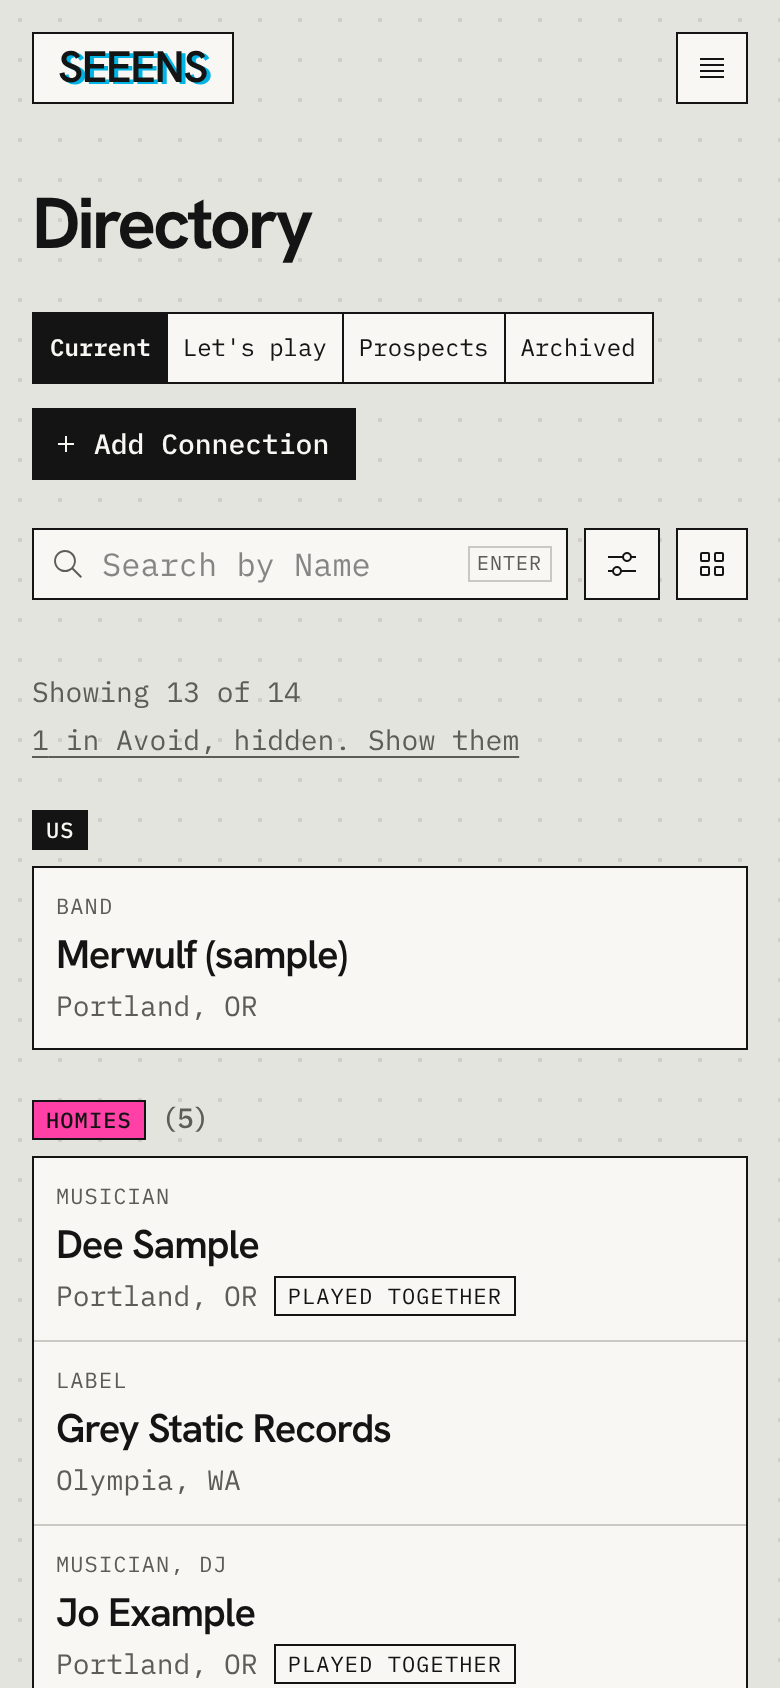
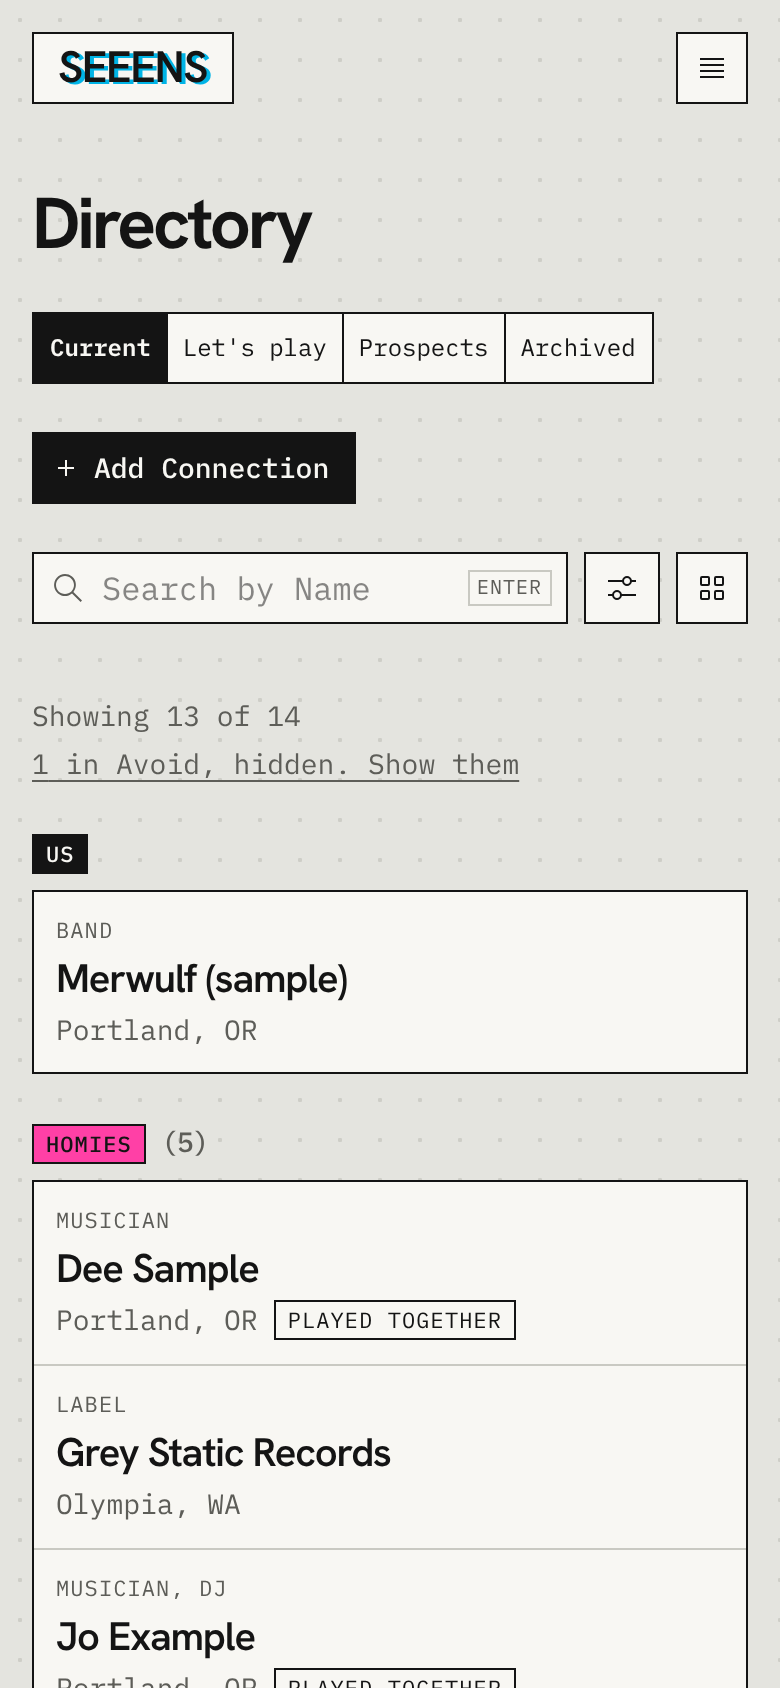
One-row directory bar on wide screens; quieter List/Cards
From 1280px the bar is one row: views, search and Filters, then
List/Cards and Add. The filter fields open under the middle. DOM order
follows reading order, so Add now comes last; phones keep Add above the
pinned search row. List/Cards uses a new Secondary tone of the
Segmented Control: paper with an ink underline on the pick.

Claude-Session: https://claude.ai/code/session_01SMP6NnyPkRALtU7G1T7uNS

diff --git a/src/app/(app)/page.tsx b/src/app/(app)/page.tsx
@@ -116,20 +116,21 @@ async function Directory({
         {/* Every directory control in one bar, pinned while the list scrolls.
             Phones pin only the search row. */}
         <PinWatch selector=".directory-bar, .bar-search" />
+        {/* DOM order is reading and tab order: views, search and filters,
+            then Add. Wide screens fit it all on one row; narrower ones put
+            views and Add on top and search under them (see .directory-bar). */}
         <div className="directory-bar">
-          <div className="flex flex-wrap items-center justify-between gap-3">
-            <nav aria-label="Directory views" className="segmented">
-              {VIEWS.map((v) => (
-                <ViewLink key={v.id} href={viewHref(v.id)} current={view === v.id}>
-                  {v.label}
-                </ViewLink>
-              ))}
-            </nav>
-            <Link href="/connections/new" className="button-primary">
-              <Add size={16} aria-hidden="true" />
-              Add Connection
-            </Link>
-          </div>
+          <nav aria-label="Directory views" className="segmented bar-views">
+            {VIEWS.map((v) => (
+              <ViewLink key={v.id} href={viewHref(v.id)} current={view === v.id}>
+                {v.label}
+              </ViewLink>
+            ))}
+          </nav>
+
+          {/* Phones stack the bar in the page column, so Add goes above the
+              pinned search row. Only one of the two Adds is ever displayed. */}
+          <AddConnection className="self-start md:hidden" />
 
           {all.length ? (
             <FilterForm
@@ -141,6 +142,8 @@ async function Directory({
               layoutToggle={<LayoutToggle hrefs={layoutHrefs} />}
             />
           ) : null}
+
+          <AddConnection className="bar-add max-md:hidden" />
         </div>
 
         {list ? <p className="page-measure text-muted">{list.intro}</p> : null}
@@ -425,6 +428,15 @@ function FilterForm({
         </div>
       </FilterDisclosure>
     </AutoFilterForm>
+  );
+}
+
+function AddConnection({ className }: { className: string }) {
+  return (
+    <Link href="/connections/new" className={`button-primary ${className}`}>
+      <Add size={16} aria-hidden="true" />
+      Add Connection
+    </Link>
   );
 }
 

diff --git a/src/app/globals.css b/src/app/globals.css
@@ -559,10 +559,12 @@
     --bar-pad: 12px;
   }
   .directory-bar {
-    display: flex;
-    flex-direction: column;
+    display: grid;
+    grid-template-columns: 1fr auto;
+    align-items: start;
     gap: 12px;
-    /* Phones: let the search row stick to the page, not to this box. */
+    /* Phones: let the search row stick to the page, not to this box. Views,
+       search, and Add stack in the page column. */
     @media (width < 48rem) {
       display: contents;
     }
@@ -589,6 +591,30 @@
   }
   /* Ground and a bottom rule only while pinned (PinWatch sets data-pinned);
      at rest the bar sits on the dot grid like the rest of the page. */
+  /* Tablet up to 1280: views and Add on top, search and filters under them.
+     From 1280: one row, views | search, Filters ... List/Cards | Add, with the
+     filter fields opening under the middle. */
+  .bar-views {
+    grid-area: 1 / 1;
+  }
+  .bar-add {
+    grid-area: 1 / 2;
+    justify-self: end;
+  }
+  .directory-bar > .bar-search {
+    grid-area: 2 / 1 / 3 / -1;
+  }
+  @media (width >= 80rem) {
+    .directory-bar {
+      grid-template-columns: auto 1fr auto;
+    }
+    .bar-add {
+      grid-area: 1 / 3;
+    }
+    .directory-bar > .bar-search {
+      grid-area: 1 / 2;
+    }
+  }
   :is(.directory-bar, .bar-search)[data-pinned] {
     background: var(--color-bg-ground);
     box-shadow: inset 0 calc(-1 * var(--stroke-hair)) 0 var(--color-border-strong);
@@ -677,6 +703,17 @@
     background: var(--color-bg-inverse);
     color: var(--color-text-inverse);
     font-weight: 600;
+  }
+  /* Tone=Secondary: a quieter selected state for settings that sit beside
+     the main choice (List/Cards next to the views). Paper stays paper; the
+     pick gets ink text and a 2px ink underline, the rest go muted. */
+  .segmented-secondary > * {
+    color: var(--color-text-secondary);
+  }
+  .segmented-secondary > [aria-current="page"] {
+    background: var(--color-bg-surface);
+    color: var(--color-text-primary);
+    box-shadow: inset 0 -2px 0 var(--color-border-strong);
   }
 
   /* Tag (Figma Tag): mono caption in a box. Status colors from the plates. */

diff --git a/src/components/layout-toggle.tsx b/src/components/layout-toggle.tsx
@@ -48,7 +48,7 @@ export function LayoutToggle({ hrefs }: { hrefs: Record<DirectoryLayout, string>
   const other = current === "list" ? "cards" : "list";
   return (
     <>
-      <nav aria-label="Directory layout" className="segmented shrink-0 max-sm:hidden">
+      <nav aria-label="Directory layout" className="segmented segmented-secondary shrink-0 max-sm:hidden">
         {(["list", "cards"] as const).map((layout) => (
           <Link
             key={layout}

diff --git a/docs/design-system/rules.md b/docs/design-system/rules.md
@@ -37,7 +37,8 @@ Seeens is not a sales tool. Bands work on their own time, and urgency comes and 
 - Keep primary actions clear: add a connection, favorite it, or record outreach.
 - **Page width:** the app has no max width. Gutters are 16px, 24px from `md`, and 32px from `xl` (`.page-gutter`). The directory and Boards use the full width. Reading and form pages (connection detail, edit forms, scenes, follow-ups, export) and long text such as the search row and view intros hold a 56rem measure (`.page-measure`), left-aligned with the logo.
 - Card grids fill the row with as many 280px-minimum columns as fit (`.card-grid`).
-- **Directory bar:** every directory control sits in one bar pinned to the top of the window (`.directory-bar`): views and Add Connection on the first row; then a full-width row with the search field (up to 320px, icon inside on the left, an ENTER keycap hint inside on the right) and Filters held left, and List/Cards pinned right; then the filter fields. Filters is paper until the fields are open or a filter is set, then ink, so ink means something is in play. On phones, Filters shows its icon and count, and List/Cards becomes one button showing the other layout. It runs edge to edge. At rest it sits on the dot grid; once it pins it gets solid ground and a hairline underneath (`data-pinned`, set by `PinWatch`). Phones pin only the search row and any open filters. Field labels are visually hidden and the placeholder names the field.
+- **Directory bar:** every directory control sits in one bar pinned to the top of the window (`.directory-bar`). From 1280px it's one row: views, then the search field (up to 320px, icon inside on the left, an ENTER keycap hint inside on the right) and Filters, then List/Cards and Add Connection on the right; the filter fields open under the middle. Below 1280, views and Add sit on top with search, Filters, and List/Cards under them. Filters is paper until the fields are open or a filter is set, then ink, so ink means something is in play. At rest the bar sits on the dot grid; once it pins it gets solid ground and a hairline underneath (`data-pinned`, set by `PinWatch`). Phones stack views, Add, and the search row, and pin only the search row and any open filters; there Filters shows its icon and count, and List/Cards becomes one button showing the other layout. Field labels are visually hidden and the placeholder names the field.
+- **Segmented Control tones:** Primary (ink fill on the pick) is for the main choice on a page, like the directory views. Secondary (`.segmented-secondary`: paper stays paper, the pick gets ink text and a 2px ink underline, the rest go muted) is for settings beside it, like List/Cards.
 - Use a consistent spacing scale.
 - Keep the first release focused on directory and detail views; prioritize useful relationship context over metrics.
 
